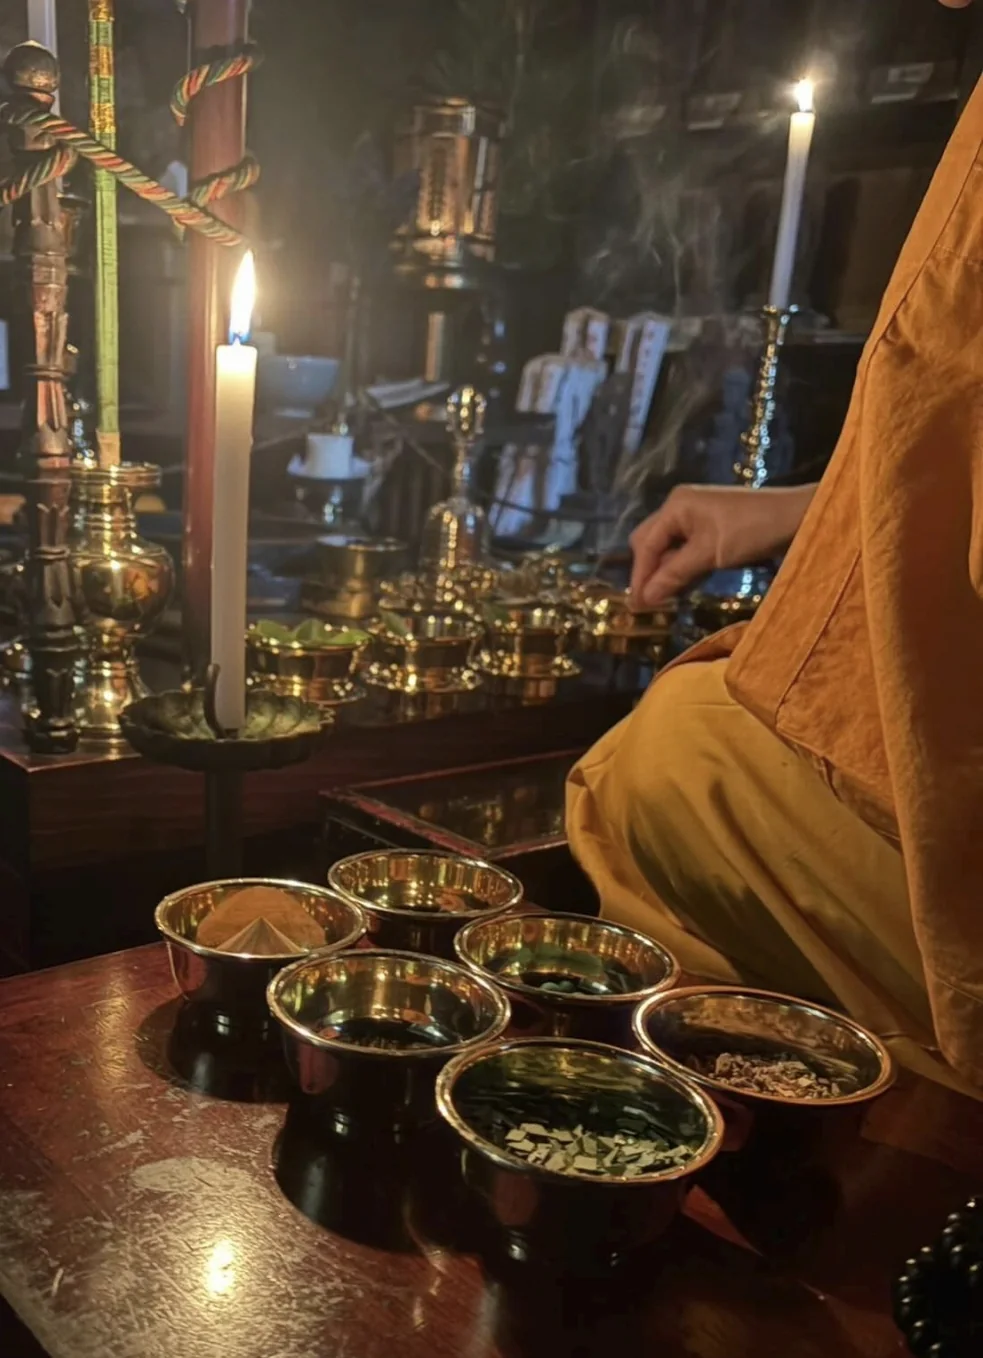
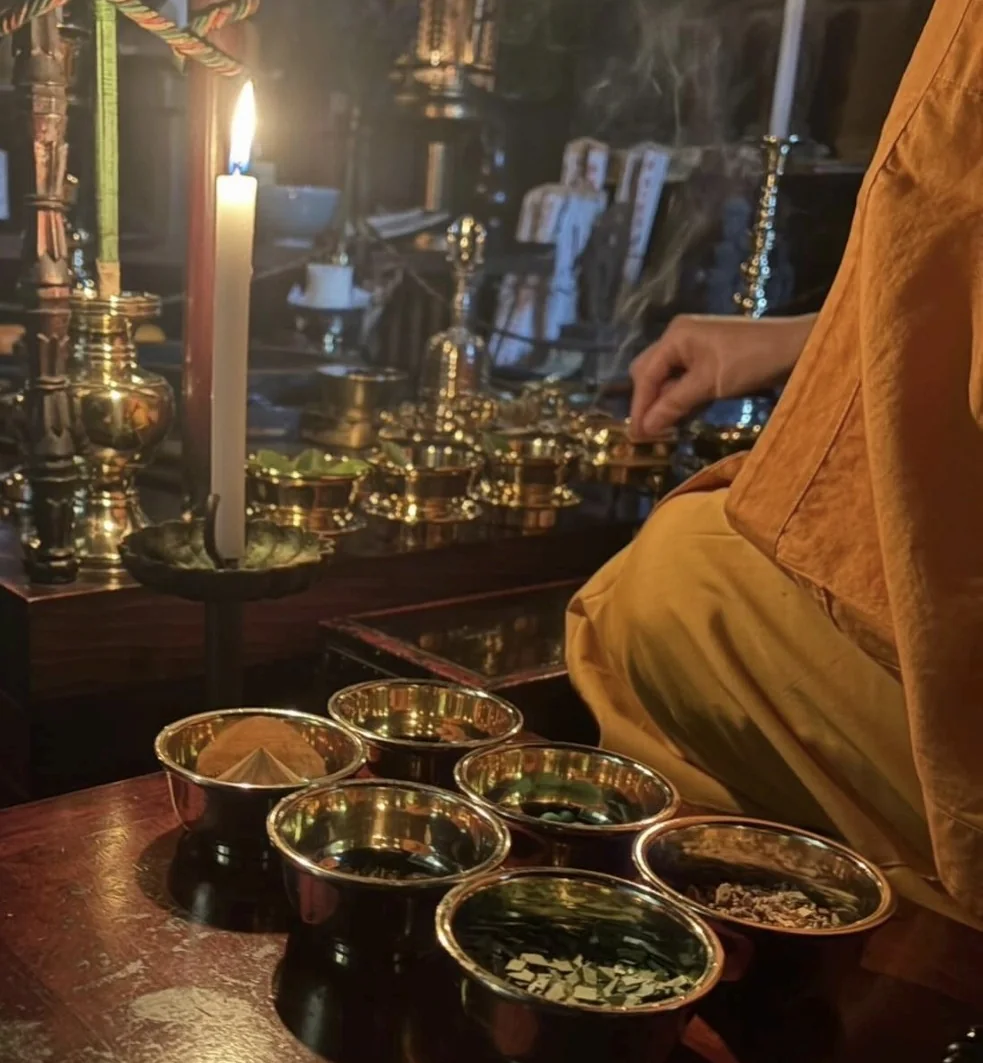
護摩修法の供物の写真をろうそくから器までの切り取りに固定

diff --git a/kuyo.html b/kuyo.html
@@ -611,7 +611,7 @@ footer .f-pv a{text-decoration:underline;text-underline-offset:4px;}
 
 .goma-note{margin-top:24px;font-size:16px;line-height:2.1;color:var(--text-2);}
 .goma-sub{margin:28px 0 0;max-width:340px;}
-.goma-sub img{width:100%;aspect-ratio:4/5;object-fit:cover;}
+.goma-sub img{width:100%;height:auto;}
 .goma-sub figcaption{font-size:13px;letter-spacing:.1em;color:var(--text-2);margin-top:8px;}
 
 .cal-figs{display:grid;gap:16px;margin-top:18px;}
@@ -823,7 +823,7 @@ footer .f-pv a{text-decoration:underline;text-underline-offset:4px;}
           <p>護摩堂では、御護摩による祈祷を随時承っております。護摩祈祷により、さまざまな願いをご祈願いただけます。</p>
           <ul class="wish"><li>無病息災</li><li>心願成就</li><li>交通安全</li></ul>
           <p class="goma-note">お不動さまは、憤怒の厳しいお顔の奥に、深い慈悲をたたえておられます。私たちの煩悩や迷いを焼きつくし、お守りくださる仏さまです。</p>
-          <figure class="goma-sub"><img src="images/photos/goma-kumotsu.webp" alt="護摩修法の前に並べられた供物の器と、ろうそくの灯り" width="983" height="1358" loading="lazy"><figcaption>護摩修法の供物</figcaption></figure>
+          <figure class="goma-sub"><img src="images/photos/goma-kumotsu.webp" alt="護摩修法の前に並べられた供物の器と、ろうそくの灯り" width="983" height="1063" loading="lazy"><figcaption>護摩修法の供物</figcaption></figure>
         </div>
       </div>
     </div>
